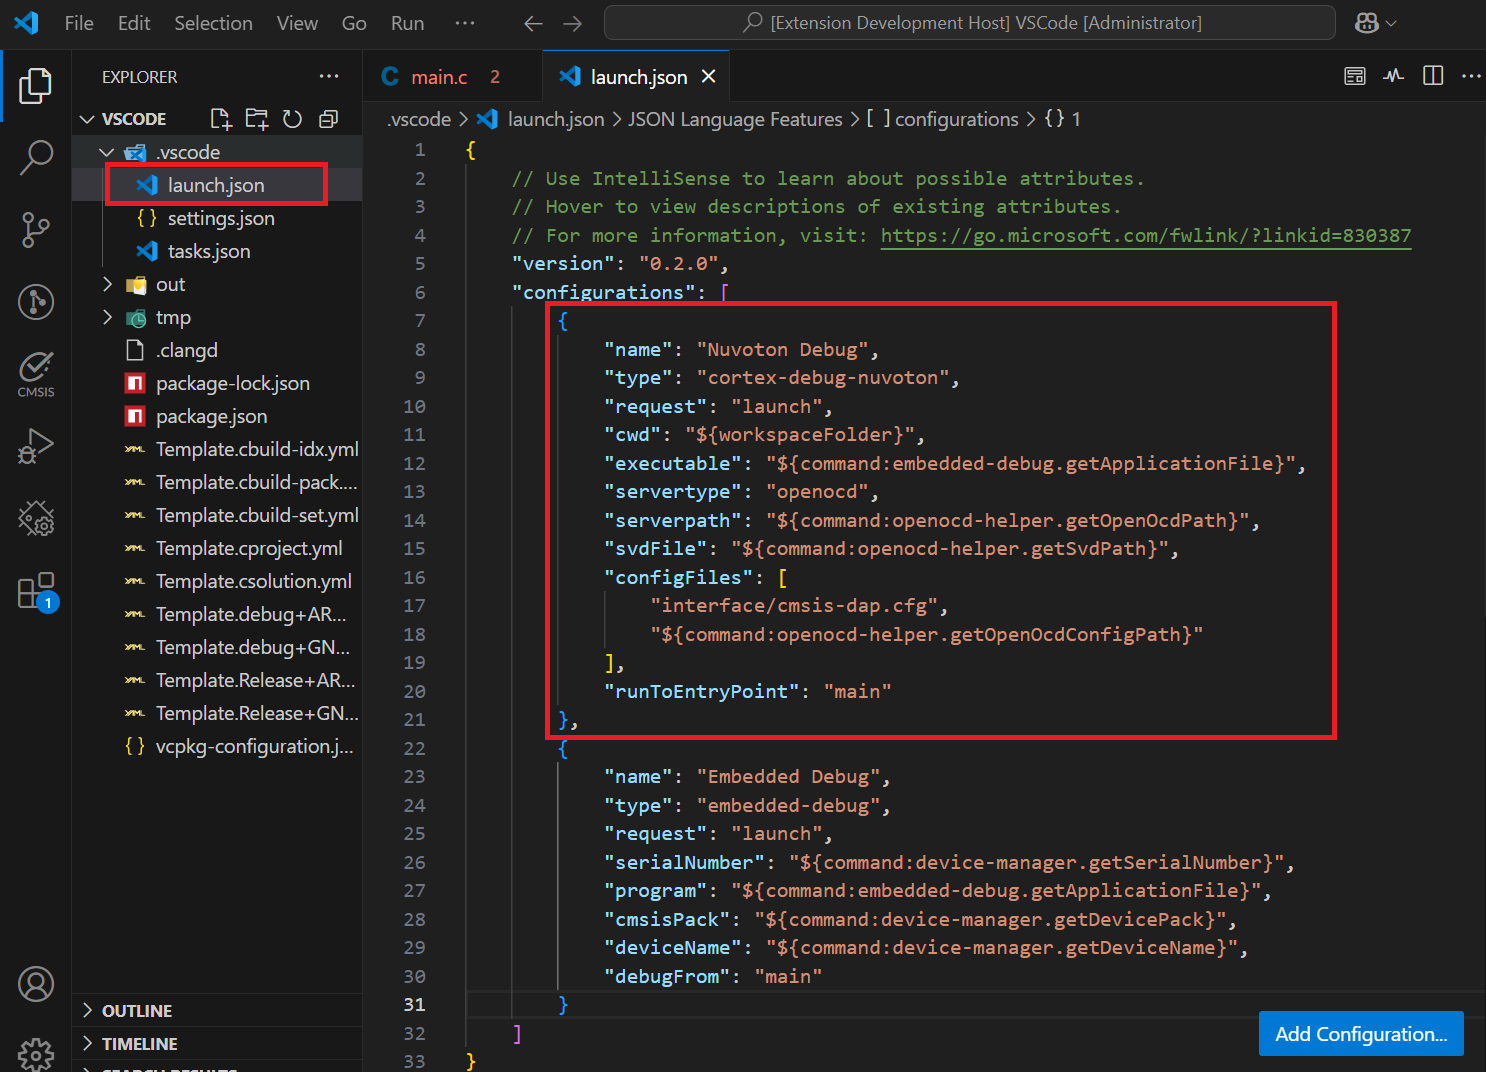
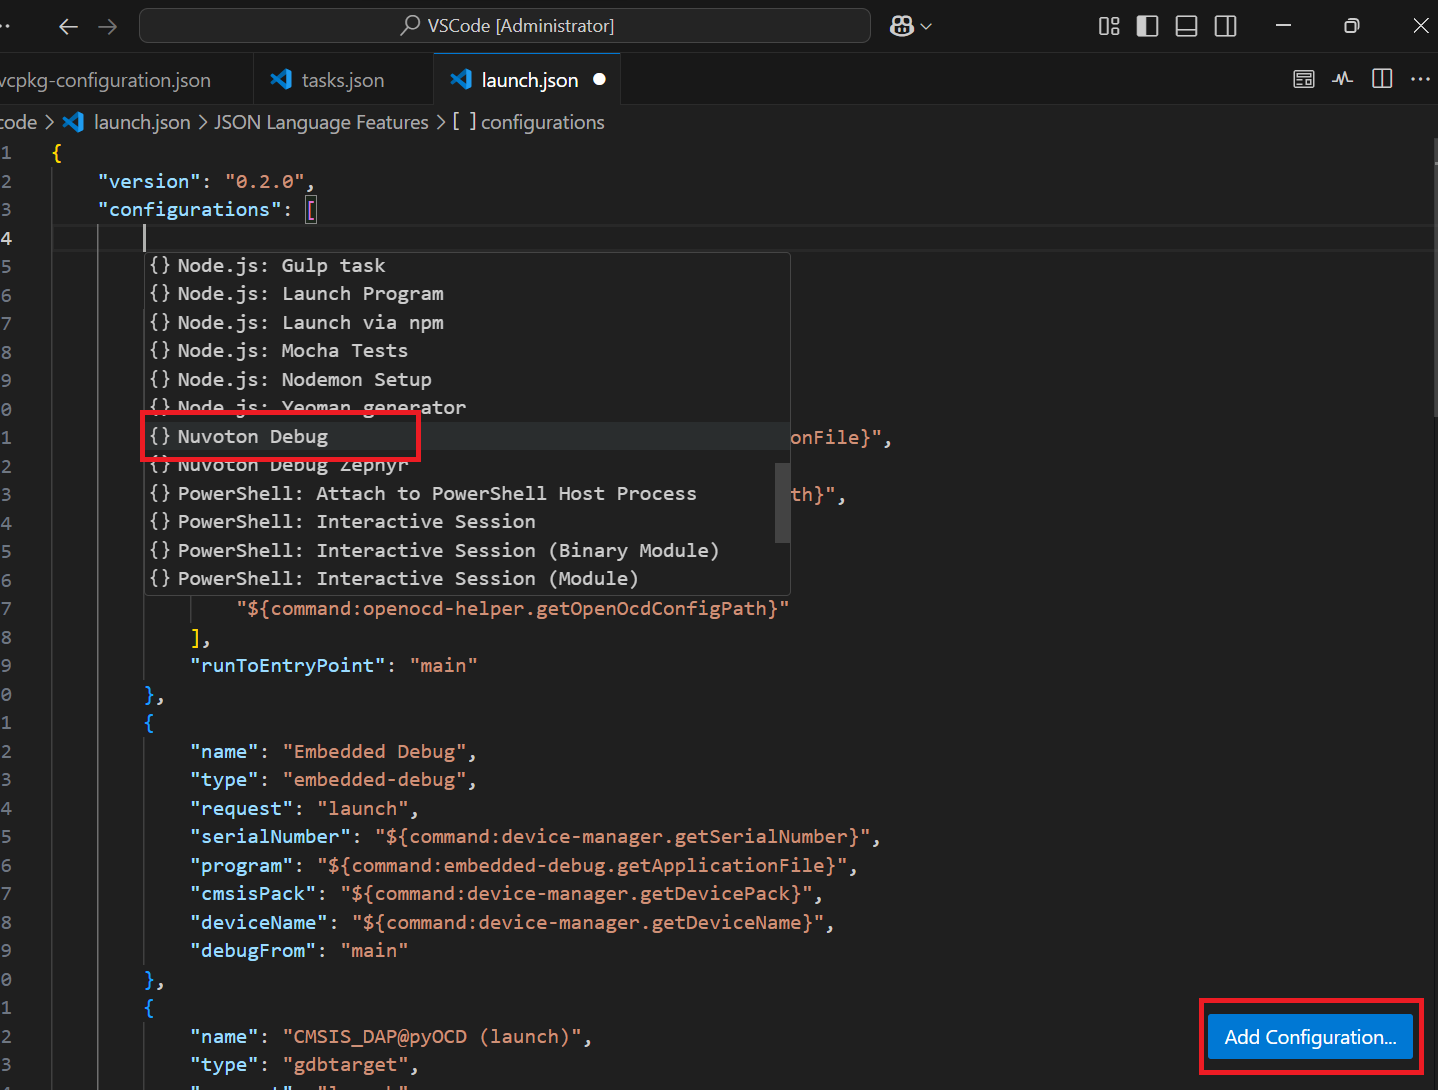
Update the environment setup steps.

diff --git a/Documents/VSCode_Extensions/Nuvoton_NuMicro_Cortex-M-Pack.md b/Documents/VSCode_Extensions/Nuvoton_NuMicro_Cortex-M-Pack.md
@@ -6,10 +6,6 @@ This guide walks you through setting up a NuMicro Cortex-M Pack project.
 ## Step 1: Install Required Extension Packs
 - Nuvoton `NuMicro Cortex-M Pack`  
 ![](../../img/ZephyrIDE/install_Nuvoton_Pack.png)
-- Fix `Arm CMSIS Solution` version at **1.52.0**  
-![](../../img/NuMicro_Cortex-M-Pack/arm_cmsis_solution.png)
-![](../../img/NuMicro_Cortex-M-Pack/arm_cmsis_version.png)
-- Fix `Arm Debugger` version at **1.4.4**  
 
 ## Step 2: Prepare NuMicro BSP project
 - Go to [Nuvoton Technology Corp](https://github.com/opennuvoton), and download NuMicro BSP project.
@@ -17,42 +13,30 @@ This guide walks you through setting up a NuMicro Cortex-M Pack project.
 ## Step 3: Open VSCode folder in your project
 - Launch Visual Studio Code
 - Choose "Open Folder..." and select the VSCode folder in your project.  
-![](../../img/NuCodeGenAI/open_vscodefolder.png)
+![](../../img/NuCodeGen/open_vscodefolder.png)
 
-## Step 4: Add `Nuvoton Debug` configuration
-- Open `.vscode/launch.json` file, and insert the debug configuration in configurations
--  insert the debug configuration in configurations
-```json
-{
-    "name": "Nuvoton Debug",
-    "type": "cortex-debug-nuvoton",
-    "request": "launch",
-    "cwd": "${workspaceFolder}",
-    "executable": "${command:embedded-debug.getApplicationFile}",
-    "servertype": "openocd",
-    "serverpath": "${command:openocd-helper.getOpenOcdPath}",
-    "svdFile": "${command:openocd-helper.getSvdPath}",
-    "configFiles": [
-        "interface/cmsis-dap.cfg",
-        "${command:openocd-helper.getOpenOcdConfigPath}"
-    ],
-    "runToEntryPoint": "main"
-}
-```
-![](../../img/NuMicro_Cortex-M-Pack/Nuvoton_Debug.png)
 
-## Step 5: Ensure your settings in "Manage Solution" are properly configured.
+## Step 4: Update `cmsis-toolbox` version
+- Update the `cmsis-toolbox` version to **2.9.0** in the `vcpkg-configuration.json` file.  
+![](../../img/NuMicro_Cortex-M-Pack/cmsis_toolbox_version.png)
+- Right-click on `vcpkg-configuration.json` and select the `Reactivate Environment` option.  
+![](../../img/NuMicro_Cortex-M-Pack/reactivate_environment.png)
+
+## Step 5: Add `Nuvoton Debug` in `launch.json`
+- Open `.vscode/launch.json` file, and click on `Add Configuration`
+- Select `Nuvoton Debug` from the list of configurations.  
+- ![](../../img/NuMicro_Cortex-M-Pack/Nuvoton_Debug.png)
+
+## Step 6: Ensure your settings in "Manage Solution" are properly configured.
 - Click on `CMSIS` in the active bar and then click on `Manage Solution` to set a context for your solution.  
--  configure the Run & Debug settings.
-   -  **Debug Configuration: `Nuvoton Debug`**  
 ![](../../img/NuMicro_Cortex-M-Pack/CMSIS_icon.png)
 
-## Step 6: Check Device Status
+## Step 7: Check Device Status
 - Make sure the device is recognized in Device Manager.
 - If a new VS Code instance is opened, the device in the Device Manager may be taken over by the newly opened VS Code. **Close all instances of VS Code and restart to ensure proper device recognition.**  
 ![](../../img/NuMicro_Cortex-M-Pack/Device_Manager.png)
 
-## Step 7: Execute `Build`, `Run` and `Debug`
+## Step 8: Execute `Build`, `Run` and `Debug`
 - `Build`  
 ![](../../img/NuMicro_Cortex-M-Pack/build.png)
 - `Run`  
